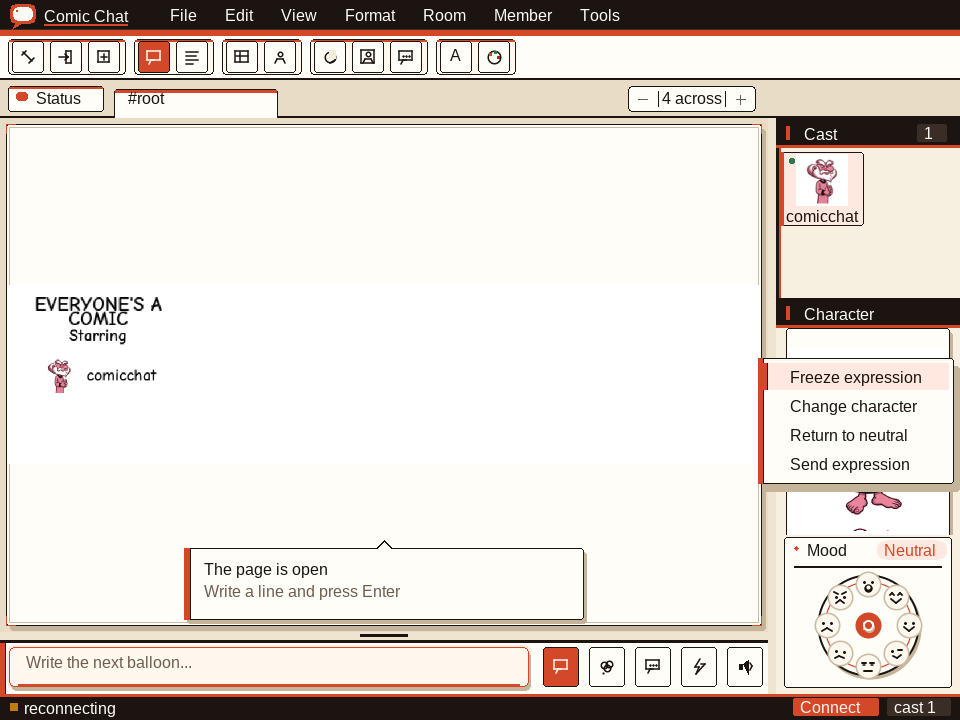
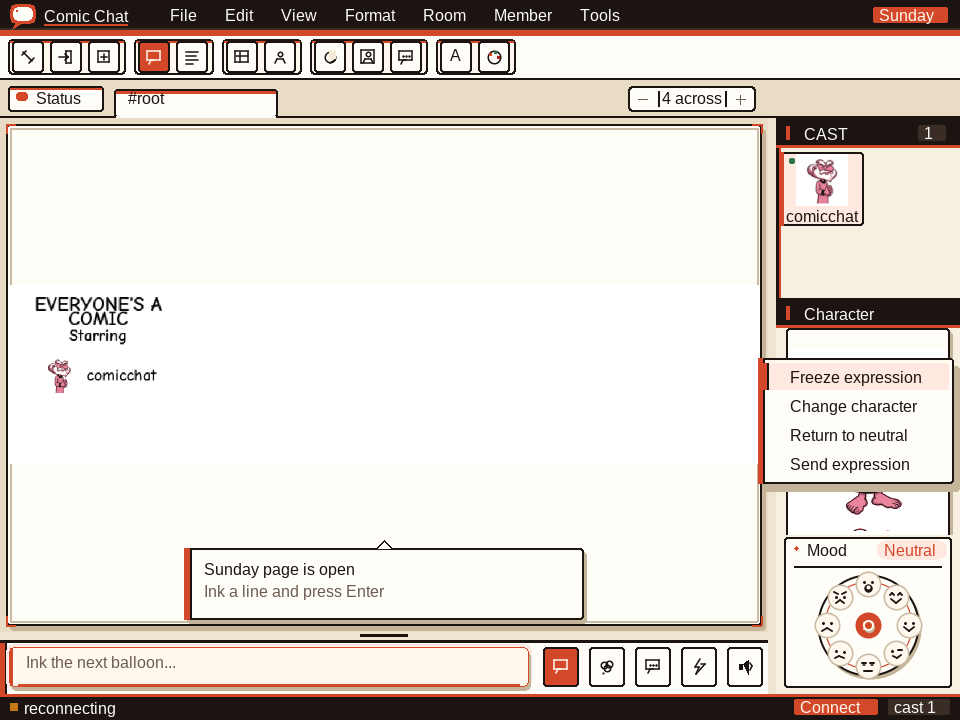
ui: polish Ink Sunday chrome for HiDPI and hover
Thicken printed plates, rules, and corner ticks to two framebuffer
pixels, add Sunday masthead and room-tab hover, and refresh committed
render-ui previews. The 1:1 strip blit path is unchanged.

diff --git a/.ai/tasks/CC-20260824-02.md b/.ai/tasks/CC-20260824-02.md
@@ -1,0 +1,67 @@
+# Task contract: CC-20260824-02
+
+## Outcome
+
+Polish Ink Sunday chrome (masthead, tool rack, page well, tabs, CAST /
+Character / mood, composer, settings, menus, empty and conversation states,
+hover / focus, HiDPI strokes) on `cursor/redesign-desktop-ui-7646` without
+touching strip renderer algorithms. Refresh committed `render-ui` PNGs.
+
+## Route
+
+- Score: `1 + 1 + 1 + 1 = 4`
+- Primary lane: `balanced`
+- Required reviewer: `fast`
+- Maximum parallel lanes: `1`
+- Critical domain: `none`
+
+## Ownership
+
+- Owned paths:
+  - `src/client/ui.zig`
+  - `src/client/view.zig`
+  - `src/client/dialogs.zig`
+  - `docs/UI_LIBRARY.md`
+  - committed `ui-*-preview.png`
+- Read-only dependencies:
+  - `src/comic/original_*.zig`
+  - `src/comic/strip.zig`
+  - `src/platform/*`
+- Forbidden paths:
+  - renderer algorithms, golden raster hashes, protocol/network/backend
+- Base commit: `6d4f60b`
+
+## Evidence and constraints
+
+- Existing behavior: Ink Sunday chrome around a 1:1 prefix-planned page.
+- Source/reference evidence: printed Sunday-page chrome; strip stays `strip.renderWithOptions`.
+- Invariants from `docs/WORKERS.md`: no SDL, no second heuristic layout, no golden hash refresh.
+
+## Acceptance criteria
+
+- [x] Structural chrome strokes are at least two framebuffer pixels.
+- [x] Room tabs, composer, settings, menus, and empty/conversation states read as printed Sunday chrome.
+- [x] Pixel tests and `zig build test` stay green.
+- [x] Committed preview PNGs match the polished chrome.
+- [x] Strip blit path is unchanged.
+
+## Verification
+
+- Focused gate: `zig build test` plus `render-ui` variants
+- Aggregate gate: `zig build test`
+- Build gate: `zig build -Dtarget=x86_64-linux`
+- Hygiene gate: `git diff --check`
+
+## Authority
+
+- Local edits authorized: `yes`
+- External writes authorized: `no`
+- Destructive actions authorized: `no`
+
+## Handoff
+
+- Files changed: `src/client/ui.zig`, `src/client/view.zig`, `src/client/dialogs.zig`, `docs/UI_LIBRARY.md`, committed `ui-*-preview.png`
+- Commands and outcomes: `zig build test` 460 pass / 1 skip plus 12 main tests; `zig build -Dtarget=x86_64-linux`; `git diff --check` clean
+- Evidence: refreshed README previews; 2px `ui.stroke` / `drawInkPlate` / `drawInkRule`; room-tab hover
+- Residual risk: Settings still persist `"Cobalt"` for vermillion
+- Recommendation: `accept`

diff --git a/docs/UI_LIBRARY.md b/docs/UI_LIBRARY.md
@@ -28,7 +28,9 @@ visual contract.
   inside. Chrome never redraws balloons or figures. An empty conversation still
   routes through `strip.render` and only overlays a caption balloon. At minimum
   window sizes the caption collapses to a compact instruction instead of
-  overflowing the available buffer.
+  overflowing the available buffer. Structural chrome strokes stay at least
+  two framebuffer pixels (`ui.stroke`) so nearest-neighbour 2x/3x HiDPI scale
+  keeps masthead rules, page ticks, and plate frames readable.
 - Shell chrome is an ink masthead, paper tool rack, playbill inspector headers,
   and a caption-box composer. Dialogs use the same masthead as the application.
 - Comic pages default to four panels across. The room strip exposes an
@@ -121,7 +123,7 @@ and disabled behavior. New screens should compose the existing primitives:
   `DialogLayout`
 - `drawTextSelection`, `drawTextCaret`, `drawTextOverflowMark`, and
   `drawBrowseButton` for editable field adornments
-- `drawBrandMark`, `drawPageWell`, `drawInkChip`, `drawMemberRailSurface`, `drawStatusIdentity`, and
+- `drawBrandMark`, `drawPageWell`, `drawInkChip`, `drawInkPlate`, `drawInkRule`, `drawMemberRailSurface`, `drawStatusIdentity`, and
   `drawPreviewChoiceCard` for shell identity, the printed page well, playbill chips, and compact client surfaces
 - `drawAppBrand`, `drawPaneCountHeader`, and `drawDismissHint` for stable
   shell identity, inspector headers, and temporary-popover keyboard guidance
